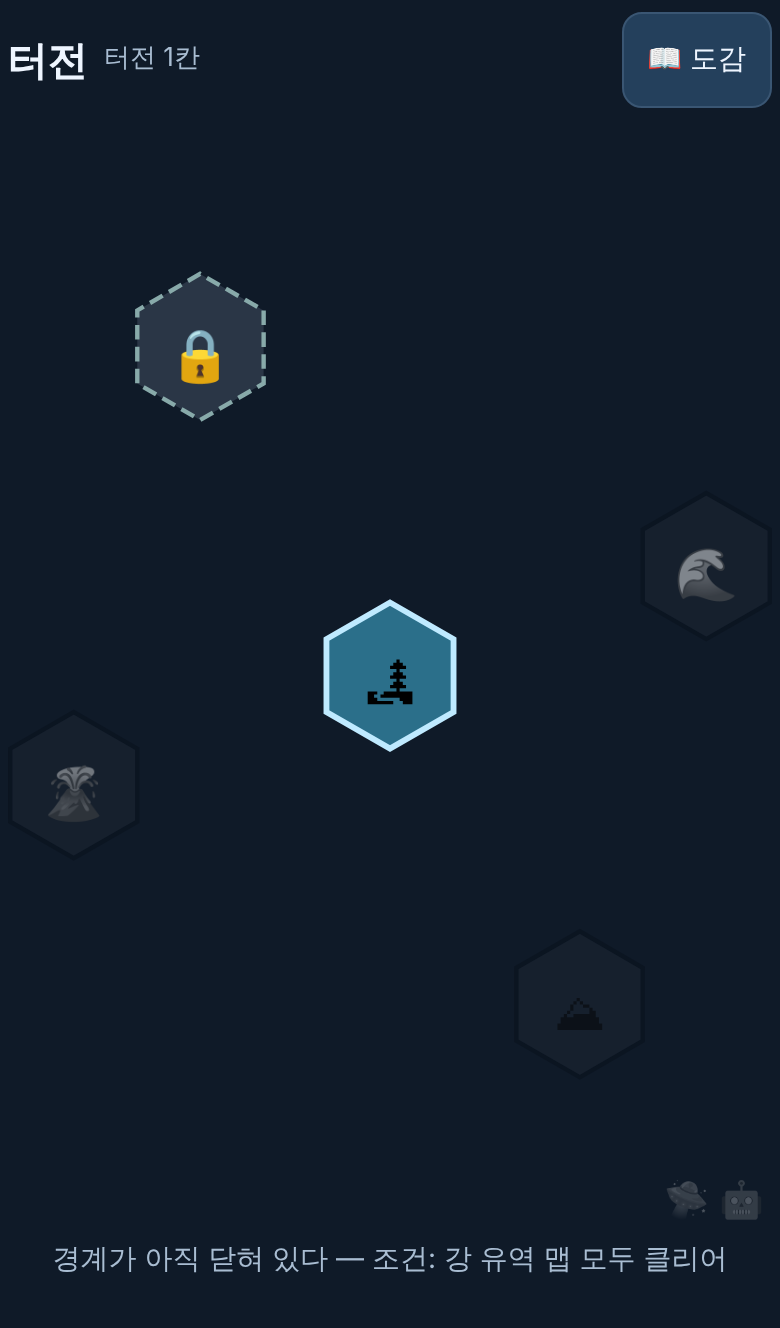
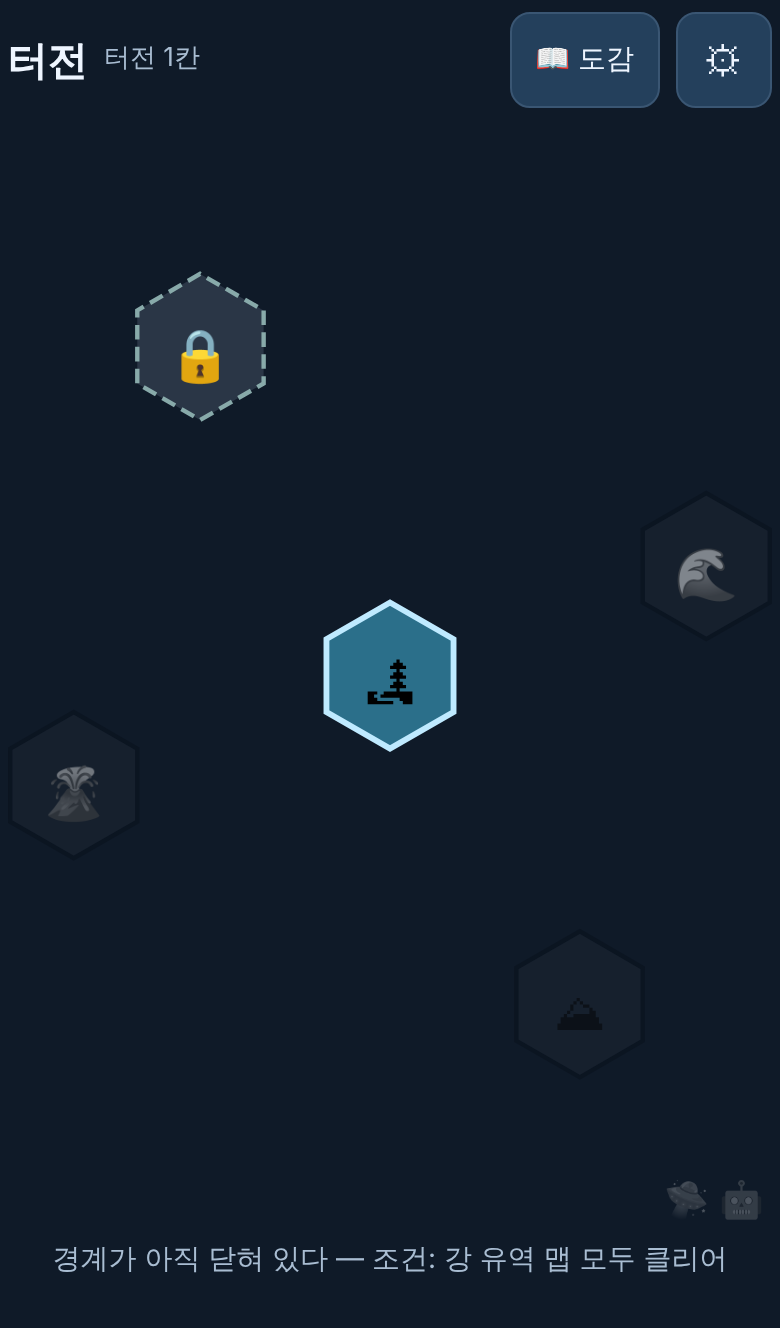
chore: ship v2 at the site root, per-map star thresholds, settings screen
- build: v2 bundle at dist/ root, v1 kept under dist/legacy/ (§22)
- bots --star3 derives ⭐3 thresholds from the skilled bot; data updated
- settings: haptics, reduced motion, left-hand skill bar, tutorial replay,
  v1 link; play screen honours them
- wave count fallback comes from the growth table instead of a literal
- epic marked done with remaining open items

Story: production/epics/physics-td/EPIC.md
Design: docs/DETAILED_DESIGN_V2.md §8.2, §15.6, §22

Claude-Session: https://claude.ai/code/session_01CzaZN3bPZRbbrP4LsHFEau

Changed region(s): [[0.6462, 0.0, 0.9538, 0.0926]]

diff --git a/src/main.ts b/src/main.ts
@@ -20,6 +20,7 @@ import { createStreams } from './core/rng.ts';
 import { mountScenes } from './ui/screens/prologue.ts';
 import { mountWorldMap } from './ui/screens/worldMap.ts';
 import { mountCodex } from './ui/screens/codex.ts';
+import { mountSettings } from './ui/screens/settings.ts';
 
 /**
  * v2 bootstrap and screen router: prologue → world map → region map list → play, codex
@@ -27,7 +28,7 @@ import { mountCodex } from './ui/screens/codex.ts';
  * URL params for development / e2e:
  *   map=<id> (skip map select) · char=<id> · kit=all (grant tactical + ultimate) · seed=<n> ·
  *   region=glacier (force regional skill variants) · tutorial=0 (off) · dev=1 (expose state) ·
- *   screen=maps (old flat map list)
+ *   screen=maps (old flat map list) · screen=codex · screen=settings
  */
 const q = new URLSearchParams(location.search);
 const t = createT(ko);
@@ -78,7 +79,7 @@ function showWorld(): void {
   });
   dispose = mountWorldMap({
     root, t, world: WORLD, cells, open: id => regionOpen(WORLD, id, cleared), regionName: id => t('region.' + id),
-    onRegion: id => showMapSelect(id), onCodex: showCodex,
+    onRegion: id => showMapSelect(id), onCodex: showCodex, onSettings: showSettings,
     notices: takeNotices(),
   }).dispose;
   if (res.run) {
@@ -101,6 +102,18 @@ function showCodex(): void {
     tab: (q.get('tab') as 'endings' | 'fusions' | 'memories' | null) ?? 'endings', onBack: showWorld,
   }).dispose;
   if (dev) (globalThis as Record<string, unknown>).__ptd = { screen: 'codex', store };
+}
+
+function showSettings(): void {
+  dispose?.();
+  const s = store.load();
+  dispose = mountSettings({
+    root, t, settings: s.settings, legacyHref: './legacy/index.html',
+    onChange: st => { const n = store.load(); n.settings = st; store.save(n); },
+    onReplayTutorial: () => { const n = store.load(); n.progress.tutorial = 1; store.save(n); },
+    onBack: showWorld,
+  }).dispose;
+  if (dev) (globalThis as Record<string, unknown>).__ptd = { screen: 'settings', store };
 }
 
 function showMapSelect(region?: string): void {
@@ -146,7 +159,7 @@ function play(mapId: string, run?: NonNullable<SaveV1['run']>, fromRegion?: stri
   const region = map.data.region ?? 'river';
   const next = MAPS[MAPS.indexOf(base) + 1];
   const screen = mountPlay({
-    root, map, t, chars: CHARACTERS, fusions: FUSIONS, seed,
+    root, map, t, chars: CHARACTERS, fusions: FUSIONS, seed, settings: save.settings,
     rules: p => {
       const rs = createRules(map, SKILLS, char, ECONOMY, () => p.phase === 'wave');
       if (q.get('kit') === 'all') { grant(rs, char.skills.tactical); grant(rs, char.skills.ultimate); }
@@ -192,4 +205,5 @@ function play(mapId: string, run?: NonNullable<SaveV1['run']>, fromRegion?: stri
 if (q.get('map')) play(q.get('map') as string);
 else if (q.get('screen') === 'maps') showMapSelect();
 else if (q.get('screen') === 'codex') showCodex();
+else if (q.get('screen') === 'settings') showSettings();
 else showWorld();

diff --git a/src/ui/screens/settings.ts b/src/ui/screens/settings.ts
@@ -1,0 +1,58 @@
+import type { SaveV1 } from '../../save/storage.ts';
+import type { T } from '../i18n.ts';
+
+/** Settings (DETAILED §15.6, GD §18): haptics, reduced motion, left-hand mode, tutorial replay. */
+export interface SettingsOptions {
+  root: HTMLElement;
+  t: T;
+  settings: SaveV1['settings'];
+  onChange: (s: SaveV1['settings']) => void;
+  onReplayTutorial: () => void;
+  onBack: () => void;
+  legacyHref: string;
+}
+
+export function mountSettings(o: SettingsOptions): { dispose(): void } {
+  const { root, t } = o;
+  root.textContent = '';
+  root.className = 'settings';
+  const s = { ...o.settings };
+  const mk = (tag: string, cls = '', text = '') => { const e = document.createElement(tag); if (cls) e.className = cls; if (text) e.textContent = text; return e; };
+  const head = mk('header');
+  const back = mk('button', 'back', t('codex.back'));
+  back.addEventListener('click', o.onBack);
+  head.append(back, mk('h1', '', t('settings.title')));
+  root.append(head);
+  const toggle = (key: 'haptics' | 'leftHand', label: string) => {
+    const b = mk('button', 'row') as HTMLButtonElement;
+    b.setAttribute('role', 'switch');
+    const sync = () => { b.setAttribute('aria-checked', String(s[key])); b.textContent = `${label} · ${t(s[key] ? 'common.on' : 'common.off')}`; };
+    b.addEventListener('click', () => { s[key] = !s[key]; sync(); o.onChange({ ...s }); });
+    sync(); root.append(b);
+  };
+  toggle('haptics', t('settings.haptics'));
+  toggle('leftHand', t('settings.leftHand'));
+  const motion = mk('div', 'row-group');
+  motion.setAttribute('role', 'radiogroup');
+  motion.setAttribute('aria-label', t('settings.motion'));
+  motion.append(mk('span', 'label', t('settings.motion')));
+  const opts = ['auto', 'on', 'off'] as const;
+  const mbtns = opts.map(v => {
+    const b = mk('button', 'seg', t('settings.motion.' + v));
+    b.setAttribute('role', 'radio');
+    b.addEventListener('click', () => { s.reducedMotion = v; sync(); o.onChange({ ...s }); });
+    motion.append(b);
+    return b;
+  });
+  const sync = () => mbtns.forEach((b, i) => b.setAttribute('aria-checked', String(opts[i] === s.reducedMotion)));
+  sync();
+  root.append(motion);
+  const replay = mk('button', 'row', t('settings.tutorial'));
+  const msg = mk('p', 'hint');
+  msg.setAttribute('role', 'status');
+  replay.addEventListener('click', () => { o.onReplayTutorial(); msg.textContent = t('settings.tutorialDone'); });
+  const legacy = mk('a', 'row link', t('settings.legacy')) as HTMLAnchorElement;
+  legacy.href = o.legacyHref;
+  root.append(replay, msg, legacy);
+  return { dispose() { root.textContent = ''; } };
+}

diff --git a/web/app.css b/web/app.css
@@ -173,7 +173,7 @@ button:disabled { opacity: .35; }
   #app.world .resume { grid-column: 2; }
   .world-status { grid-column: 2; text-align: left; }
 }
-.map-select .back, .codex .back { min-height: 48px; padding: 0 12px; margin-bottom: 4px; }
+.map-select .back, .codex .back, .settings .back { min-height: 48px; padding: 0 12px; margin-bottom: 4px; }
 #app.codex { height: 100dvh; overflow-y: auto; padding: calc(env(safe-area-inset-top) + 8px) 14px 16px; }
 .codex header { display: flex; align-items: center; gap: 10px; }
 .codex h1 { margin: 0; font-size: 20px; }
@@ -191,3 +191,21 @@ button:disabled { opacity: .35; }
 .recall .label { font-size: 12px; color: #ffd36b; }
 .recall p { margin: 4px 0 0; line-height: 1.5; }
 .memory-got { text-align: center; color: #9fe0ff; margin: 0; }
+
+/* settings (DETAILED §15.6) */
+.settings-btn { width: 48px; min-height: 48px; padding: 0; font-size: 20px; }
+#app.settings { height: 100dvh; overflow-y: auto; padding: calc(env(safe-area-inset-top) + 8px) 14px 16px; display: flex; flex-direction: column; gap: 8px; }
+.settings header { display: flex; align-items: center; gap: 10px; }
+.settings h1 { margin: 0; font-size: 20px; }
+.settings .row { min-height: 52px; text-align: left; padding: 0 14px; font-size: 16px; display: flex; align-items: center; }
+.settings .row[aria-checked="true"] { border-color: var(--accent); }
+.settings .link { color: var(--text); text-decoration: none; background: #24405c; border: 1px solid var(--line); border-radius: 10px; }
+.settings .row-group { display: flex; flex-wrap: wrap; gap: 6px; align-items: center; }
+.settings .row-group .label { width: 100%; color: var(--muted); }
+.settings .seg { flex: 1; min-height: 48px; }
+.settings .seg[aria-checked="true"] { background: var(--accent); border-color: #c8fff7; }
+.settings .hint { margin: 0; color: var(--muted); font-size: 13px; min-height: 1.2em; }
+/* left-hand mode mirrors the skill bar; reduced motion stops animations */
+#app.play.left-hand .bar { flex-direction: row-reverse; }
+@media (orientation: landscape) { #app.play.left-hand .bar { direction: rtl; } }
+#app.play.reduced-motion *, #app.play.reduced-motion *::after { animation: none !important; }

diff --git a/src/ui/screens/play.ts b/src/ui/screens/play.ts
@@ -58,6 +58,8 @@ export interface PlayScreenOptions {
   waveLine?: (wave: number) => string | null;
   /** Persist a snapshot (prepare entry, after a draft pick, background). */
   onSave?: (play: Play) => void;
+  /** Player settings: haptics off, reduced motion forced on/off, left-hand skill bar. */
+  settings?: { haptics: boolean; reducedMotion: 'auto' | 'on' | 'off'; leftHand: boolean };
   /** Runs after the play is created and before rendering starts (resume). */
   beforeMount?: (play: Play) => void;
   /** Notices to show once on entry (save problems). */
@@ -158,8 +160,12 @@ export function mountPlay(o: PlayScreenOptions): { play: Play; target(): TargetS
     toastBox.textContent = '';
     for (const it of toasts.items) toastBox.append(h('div', { class: 'toast' }, it.text));
   };
-  const reduced = matchMedia('(prefers-reduced-motion: reduce)').matches;
+  const rm = o.settings?.reducedMotion ?? 'auto';
+  const reduced = rm === 'on' || (rm === 'auto' && matchMedia('(prefers-reduced-motion: reduce)').matches);
+  root.classList.toggle('reduced-motion', reduced);
+  root.classList.toggle('left-hand', !!o.settings?.leftHand);
   const haptic = (pattern: number | number[]) => {
+    if (o.settings && !o.settings.haptics) return;
     if (typeof navigator.vibrate === 'function') navigator.vibrate(pattern);
     else if (!reduced) { boardWrap.classList.remove('shake'); void boardWrap.offsetWidth; boardWrap.classList.add('shake'); } // iOS: 2px shake
   };

diff --git a/bots/run.ts b/bots/run.ts
@@ -10,6 +10,12 @@ const args = process.argv.slice(2);
 const only = args.includes('--map') ? args[args.indexOf('--map') + 1] : null;
 const I1 = args.find(a => a.startsWith('I1='));
 const ids = ['dike-village', 'willow-fields', 'glacier-meadow', 'glacier-lake-valley'].filter(id => !only || id === only);
+/**
+ * ⭐3 suggestion (DETAILED §8.2): the 숙련 bot (twoRingsTwoPumps) result score without draft
+ * or first-clear bonuses — play + clear + HP×2 + no-retry — rounded down to 50. Real play adds
+ * the build bonus (up to 300) and affinity on top, so ⭐3 asks for skilled play plus a build.
+ */
+const STAR3 = args.includes('--star3');
 let bad = 0;
 for (const id of ids) {
   const data = JSON.parse(readFileSync(`data/maps/${id}.json`, 'utf8')) as MapData;
@@ -19,6 +25,10 @@ for (const id of ids) {
     const r = runStrategy(() => loadMap(data), name, ECONOMY);
     const ok = s.mixed ? r.result === 'clear' : r.result === 'defeat';
     if (!ok) bad++;
+    if (STAR3 && name === 'twoRingsTwoPumps' && r.result === 'clear') {
+      const R = ECONOMY.result, total = (r.score ?? 0) + R.clear + r.hp * R.hpPer + R.noRetry;
+      console.log(`  ⭐3 suggestion: ${Math.floor(total / 50) * 50} (bot result ${total}, data ${data.star3Score})`);
+    }
     console.log(`${ok ? '  ' : '✗ '}${name.padEnd(18)} ${r.result.padEnd(7)} W${r.wave} hp ${String(r.hp).padStart(3)} score ${String(r.score).padStart(5)} Lv${r.level}`);
   }
 }

diff --git a/src/save/storage.ts b/src/save/storage.ts
@@ -24,7 +24,7 @@ export interface SaveV1 {
     /** Tutorial step (7 = done). */
     tutorial: number;
   };
-  settings: { haptics: boolean; sound: boolean; reducedMotion: 'auto' | 'on' | 'off' };
+  settings: { haptics: boolean; sound: boolean; reducedMotion: 'auto' | 'on' | 'off'; /** Mirror the skill bar (DETAILED §15.6). */ leftHand: boolean };
   run?: { dataVersion: string; mapId: string; charId: string; seed: number; wave: number; snapshot: string };
 }
 
@@ -32,7 +32,7 @@ export interface StorageLike { getItem(k: string): string | null; setItem(k: str
 export type SaveIssue = 'memory' | 'corrupt' | 'discarded';
 
 export function defaultSave(): SaveV1 {
-  return { v: 1, progress: { maps: {}, endings: [], fusions: [], lastChar: null, tutorial: 1, memories: [], seen: [] }, settings: { haptics: true, sound: true, reducedMotion: 'auto' } };
+  return { v: 1, progress: { maps: {}, endings: [], fusions: [], lastChar: null, tutorial: 1, memories: [], seen: [] }, settings: { haptics: true, sound: true, reducedMotion: 'auto', leftHand: false } };
 }
 
 /** Bring any stored value up to the current schema. Returns null when it cannot be used. */

diff --git a/src/ui/screens/worldMap.ts b/src/ui/screens/worldMap.ts
@@ -15,6 +15,7 @@ export interface WorldMapOptions {
   regionName: (regionId: string) => string;
   onRegion: (regionId: string) => void;
   onCodex: () => void;
+  onSettings: () => void;
   notices?: string[];
 }
 
@@ -34,7 +35,10 @@ export function mountWorldMap(o: WorldMapOptions): { dispose(): void } {
   head.append(mk('h1', '', t('world.title')), mk('span', 'count', t('world.homestead', { n: o.cells.length })));
   const codex = mk('button', 'codex-btn', '📖 ' + t('world.codex')) as HTMLButtonElement;
   codex.addEventListener('click', o.onCodex);
-  head.append(codex);
+  const gear = mk('button', 'settings-btn', '⚙') as HTMLButtonElement;
+  gear.setAttribute('aria-label', t('world.settings'));
+  gear.addEventListener('click', o.onSettings);
+  head.append(codex, gear);
   const status = mk('p', 'world-status');
   status.setAttribute('role', 'status');
   status.textContent = (o.notices ?? []).join(' · ');

diff --git a/src/game/play.ts b/src/game/play.ts
@@ -117,7 +117,7 @@ const rulesHandler: SkillHandler = (p, id, zone, path) => {
 /** Create a play session in the prepare phase of wave 1. */
 export function createPlay(map: LoadedMap, opt: PlayOptions = {}): Play {
   const p: Play = {
-    map, world: map.world, phase: 'prepare', paused: false, speed: 1, waves: opt.waves ?? map.data.waves ?? 5, level: 1,
+    map, world: map.world, phase: 'prepare', paused: false, speed: 1, waves: opt.waves ?? map.data.waves ?? map.world.cfg.growth.length, level: 1,
     queue: [], events: [], acc: 0, damaging: false, rules: null, checkpoint: null, retries: 0,
     score: null, draft: null, fusions: opt.fusions ?? [], seed: opt.seed ?? 1,
     story: { damage: 0, burstWaves: [], burstWaveClean: false },

diff --git a/src/game/map.ts b/src/game/map.ts
@@ -37,7 +37,7 @@ export interface MapData {
   rain?: number;
   pulseEvery?: number;
   start: { cash: number; hp: number };
-  /** ⭐3 threshold on the result score (DETAILED §8.2; provisional until balance bots). */
+  /** ⭐3 threshold on the result score (DETAILED §8.2), from `npm run bots -- --star3`. */
   star3Score?: number;
 }
 

diff --git a/production/epics/physics-td/EPIC.md b/production/epics/physics-td/EPIC.md
@@ -2,7 +2,7 @@
 
 > **Layer**: Foundation → Presentation (single-epic MVP)
 > **Source**: `design/game-brief.md` (workflow: minimal — no GDD/ADR)
-> **Status**: Stories written
+> **Status**: Done (2026-11-09) — all 7 stories Done
 
 ## Goal
 막아낼수록 터전이 넓어지고 낯선 재해와 맞닿는다 — 신념이 다른 네 사람의 방식으로 홍수와 빙하를 다루는 모바일 웹 물리 디펜스.
@@ -29,10 +29,19 @@
 
 | # | Story | Type | Status | ADR |
 |---|-------|------|--------|-----|
-| 001 | 물·얼음 시뮬레이션 코어 | Logic | Ready | N/A |
-| 002 | 모바일 한 화면 UI + 구역 탭 조작 | UI | Ready | N/A |
-| 003 | 캐릭터 2명 + 공통·특수 스킬 | Logic | Ready | N/A |
-| 004 | 지역 2곳 × 맵 2장, 5웨이브, 튜토리얼 | Integration | Ready | N/A |
-| 005 | 판 안 레벨업 드래프트 | Logic | Ready | N/A |
-| 006 | 결과 점수 + 엔딩 4종 + 도감 + 저장 | Integration | Ready | N/A |
-| 007 | 세계 지도 + 서막 텍스트 + 기억 조각 8개 | UI | Ready | N/A |
+| 001 | 물·얼음 시뮬레이션 코어 | Logic | Done | N/A |
+| 002 | 모바일 한 화면 UI + 구역 탭 조작 | UI | Done | N/A |
+| 003 | 캐릭터 2명 + 공통·특수 스킬 | Logic | Done | N/A |
+| 004 | 지역 2곳 × 맵 2장, 5웨이브, 튜토리얼 | Integration | Done | N/A |
+| 005 | 판 안 레벨업 드래프트 | Logic | Done | N/A |
+| 006 | 결과 점수 + 엔딩 4종 + 도감 + 저장 | Integration | Done | N/A |
+| 007 | 세계 지도 + 서막 텍스트 + 기억 조각 8개 | UI | Done | N/A |
+
+## Post-epic polish (2026-11-09)
+- Build: v2 is the site root (`dist/`), v1 stays playable at `dist/legacy/` (DETAILED §22). Deploys on merge to `main`.
+- ⭐3 thresholds per map from the 숙련 bot (`npm run bots -- --star3`): 둑마을 2150, 버드나무 들 2050, 얼음 목초지 2150, 빙하호 계곡 2150.
+- Settings screen: haptics, reduced motion (auto/on/off), left-hand skill bar, tutorial replay, link to v1.
+
+## Still open
+- Defeat cause heatmap (DETAILED §15.5), text size 120% (§15.6), sound (no audio assets yet).
+- Map-specific levee lines and real playtest balance (current numbers come from fixed-placement bots).
